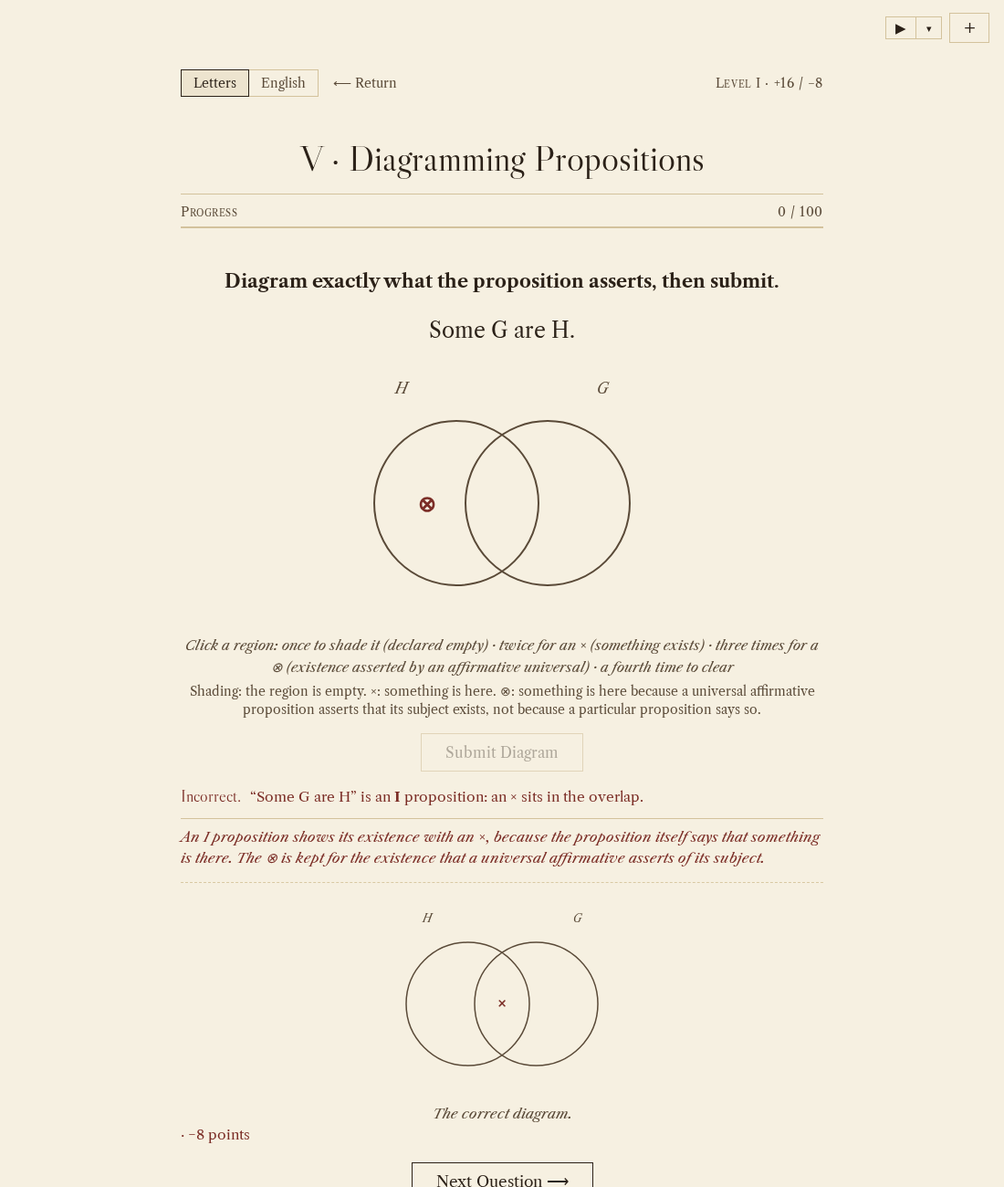
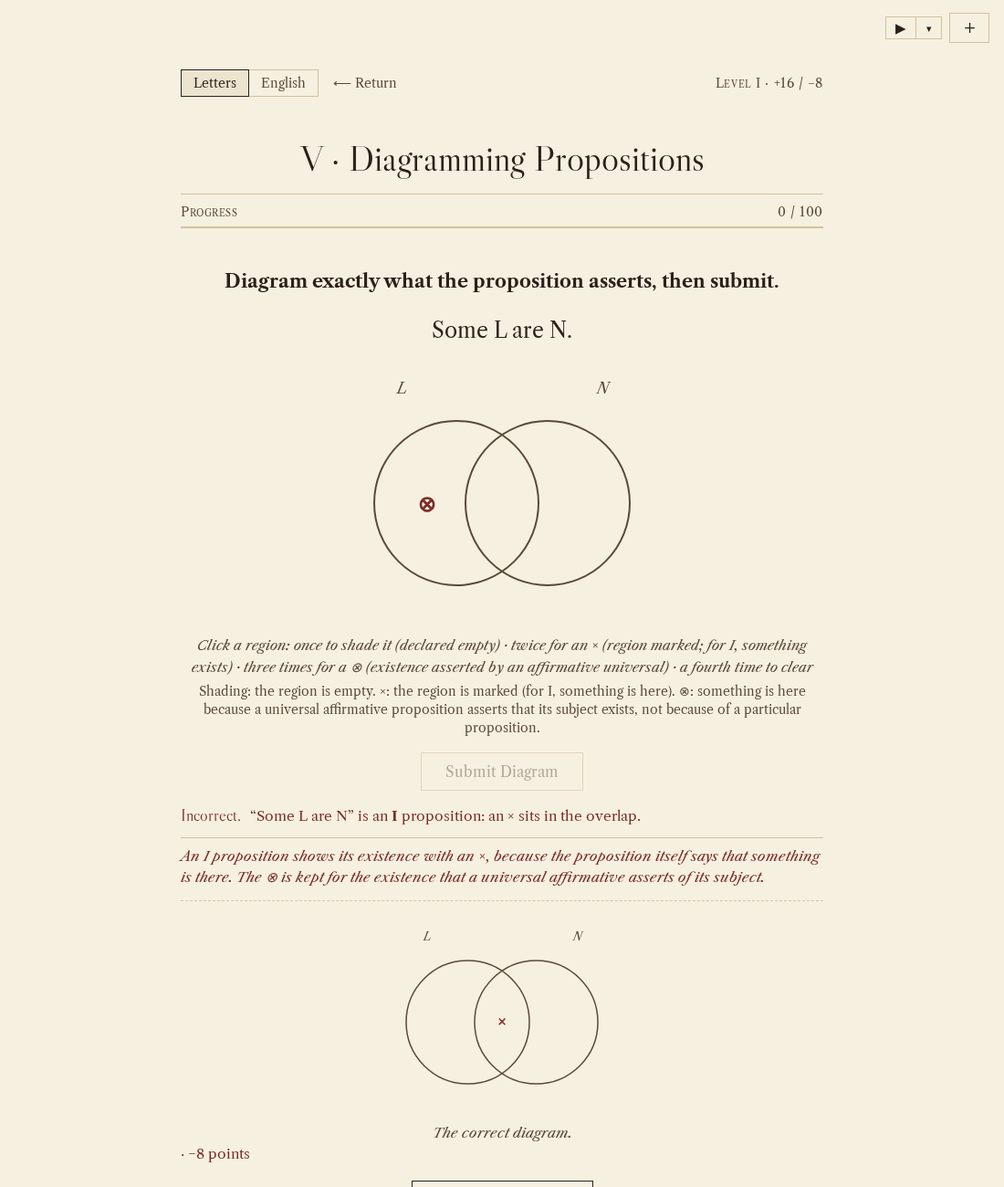
Exercise V: × legend marks the region (for I, something exists); O only marks; neutral wording for witness

diff --git a/index.html b/index.html
@@ -2043,13 +2043,13 @@ html[data-font="italic"] .fb-why{font-size:1.06em}
       <div class="lab-terms" id="lab1-terms"></div>
       <div class="preset-row" id="lab1-presets"></div>
       <div id="lab1-box"></div>
-      <div class="venn-legend" data-directions>Click a region: once to shade it (declared empty) · twice for an × (something exists) · a third time to clear</div>
+      <div class="venn-legend" data-directions>Click a region: once to shade it (declared empty) · twice for an × (region marked; for I, something exists) · a third time to clear</div>
       <div class="lab-read" id="lab1-read"></div>
       <details class="help" id="lab1-history" data-directions>
         <summary>The History of These Diagrams</summary>
         <p>In the tradition a general term signifies a nature, and it stands for (supposits for) the individuals of which that nature can be truly said. So comprehension is prior to extension: we know what a dog is before we can say which things are dogs, and “All dogs are animals” attributes animality to the dog as such. A circle in these diagrams pictures only the extension of a term, that is, the things for which it stands; it does not picture what the term means, and it is not a set defined by its members.</p>
         <p>John Venn, the English logician, published these diagrams in 1880 as an aid to the algebra of George Boole, in which a term names a class, a class may be empty, every class has a complement, and all classes lie within a universe of discourse. Leonhard Euler, the Swiss mathematician, had used circles in the eighteenth century, drawing each proposition as one arrangement of circles; Venn instead drew every possible region and marked it. On the Boolean reading “All S are P” says only that no S lies outside P, and so it is true when there are no S.</p>
-        <p>This course uses Venn’s drawing but keeps the traditional doctrine. Shading declares a region empty, an × declares that something is there, and a ⊗ shows the existence that an affirmative universal asserts of its subject, drawn where an argument needs it. Where the modern logician speaks of a complement, we speak of an infinite term such as “non-animal,” which the course treats through obversion. A fuller account is in <em>Logic as a Science: Opposition and Conversion in Depth</em>.</p>
+        <p>This course uses Venn’s drawing but keeps the traditional doctrine. Shading declares a region empty, an × marks a region (for I, that something is there), and a ⊗ shows the existence that an affirmative universal asserts of its subject, drawn where an argument needs it. Where the modern logician speaks of a complement, we speak of an infinite term such as “non-animal,” which the course treats through obversion. A fuller account is in <em>Logic as a Science: Opposition and Conversion in Depth</em>.</p>
         <p>Euler’s circles differ from Venn’s in what they draw. An Euler diagram draws only the relation that holds between the terms: for “All A are B,” the circle A lies inside the circle B; for “No A are B,” the two circles stand apart; and for “Some A are B,” the two circles overlap.</p>
         <div class="euler-row" style="display:flex; flex-wrap:wrap; justify-content:center; gap:18px; margin:10px 0"><figure style="margin:0; text-align:center"><svg viewBox="0 0 160 100" width="150" height="94" xmlns="http://www.w3.org/2000/svg" role="img"><title>All A are B</title><circle cx="80" cy="50" r="44" fill="none" stroke="var(--ink)" stroke-width="2"/><circle cx="80" cy="60" r="22" fill="none" stroke="var(--ink)" stroke-width="2"/><text x="80" y="66" font-size="16" font-style="italic" fill="var(--ink)" font-family="inherit" text-anchor="middle">A</text><text x="80" y="26" font-size="16" font-style="italic" fill="var(--ink)" font-family="inherit" text-anchor="middle">B</text></svg><figcaption style="color:var(--ink-soft)">All A are B</figcaption></figure><figure style="margin:0; text-align:center"><svg viewBox="0 0 160 100" width="150" height="94" xmlns="http://www.w3.org/2000/svg" role="img"><title>No A are B</title><circle cx="38" cy="50" r="30" fill="none" stroke="var(--ink)" stroke-width="2"/><circle cx="122" cy="50" r="30" fill="none" stroke="var(--ink)" stroke-width="2"/><text x="38" y="56" font-size="16" font-style="italic" fill="var(--ink)" font-family="inherit" text-anchor="middle">A</text><text x="122" y="56" font-size="16" font-style="italic" fill="var(--ink)" font-family="inherit" text-anchor="middle">B</text></svg><figcaption style="color:var(--ink-soft)">No A are B</figcaption></figure><figure style="margin:0; text-align:center"><svg viewBox="0 0 160 100" width="150" height="94" xmlns="http://www.w3.org/2000/svg" role="img"><title>Some A are B</title><circle cx="58" cy="50" r="36" fill="none" stroke="var(--ink)" stroke-width="2"/><circle cx="102" cy="50" r="36" fill="none" stroke="var(--ink)" stroke-width="2"/><text x="40" y="56" font-size="16" font-style="italic" fill="var(--ink)" font-family="inherit" text-anchor="middle">A</text><text x="120" y="56" font-size="16" font-style="italic" fill="var(--ink)" font-family="inherit" text-anchor="middle">B</text></svg><figcaption style="color:var(--ink-soft)">Some A are B</figcaption></figure></div>
         <p>A Venn diagram, by contrast, always draws every region, whether or not anything is there, and then marks a region as empty by shading it or as occupied by placing an × in it. So the same Venn figure serves for every proposition, and only the marks change.</p>
@@ -2238,7 +2238,7 @@ if(typeof document!=='undefined'){
      desc:'John of St. Thomas counts four modes: necessary, impossible, possible, and contingent. In this course the contingent is what can be, and can also not be. We judge equipollences (whether two expressions have the same force and the same corner of the square, as when we ask whether “not possible that not” comes to “necessary”), the modal square, and the composite and divided senses (whether the seated man may walk).',
      instr:'The modes of propositions.'},
     {id:8, title:'Diagramming Syllogisms',
-     desc:'We diagram a whole valid syllogism on three circles: we shade the universal premises, place the ×s, and, where the conclusion needs the existence of a term, place the import mark ⊗. We use Venn diagrams because they let us see what the premises assert and whether the conclusion is already contained in them, and in Exercises VIII through XI, XVI, and XVIII, and in the categorical arguments of XV and XIX, the answer is illustrated with a diagram of the correct analysis. Shading declares a region empty; an × declares that something is there; a ⊗ declares that something is there because an affirmative universal premise asserts that its subject exists, not because a particular premise says so.',
+     desc:'We diagram a whole valid syllogism on three circles: we shade the universal premises, place the ×s, and, where the conclusion needs the existence of a term, place the import mark ⊗. We use Venn diagrams because they let us see what the premises assert and whether the conclusion is already contained in them, and in Exercises VIII through XI, XVI, and XVIII, and in the categorical arguments of XV and XIX, the answer is illustrated with a diagram of the correct analysis. Shading declares a region empty; an × marks a region (for I, that something is there); a ⊗ declares that something is there because an affirmative universal premise asserts that its subject exists, not because of a particular premise.',
      instr:'Diagram the full syllogism, then submit.'},
     {id:9, title:'Syllogistic Form in the Abstract',
      desc:'We judge whether a syllogism in schematic letters is valid, considering its form alone. Capital letters are general terms; lower-case letters are singular terms.',
@@ -2785,7 +2785,7 @@ if(typeof document!=='undefined'){
       + `<p>A negative proposition carries no such existence: “No unicorns are white” is true, and so is “Some unicorn is not white.” Modern set theory reads “All S are P” as true when there are no S, and so it denies the step from “All S are P” to “Some S are P.” This course follows the classical way: affirmatives carry existential import, and negatives do not. We do speak truly of fictional and merely thought things, as in “Sherlock Holmes lives on Baker Street,” but there the copula signifies being in a story or in the mind. In the exercises the copula signifies actual existence, unless the matter or the wording extends it, as in a proposition in necessary matter or one with “can,” “will,” or “was.” (We restrict signification to actual existence here because our goal in logic is guiding reasoning toward certain knowledge. This restriction keeps that goal clear and it also allows us to choose example propositions that are obviously false, like propositions about the Phoenix or Sherlock Holmes; and if we did not restrict consideration to actual existence some of these propositions would be true or at least their truth might be in doubt.) <em>The Square of Opposition</em> (workshop) sets the classical reading beside the modern one, on which only the contradictories survive.</p>` },
     { h:`<p><strong>Opposition.</strong> Propositions with the same subject and predicate that differ in quality, in quantity, or in both are <em>opposed</em>, and their relations make up the square of opposition. <strong>Contradictories</strong> (A and O; E and I) differ in both quality and quantity, so one must be true and the other false. <strong>Contraries</strong> (A and E) cannot both be true, though both may be false. <strong>Subcontraries</strong> (I and O) cannot both be false, though both may be true. <strong>Subalterns</strong> (A and I; E and O) share their quality: if the universal is true, the particular is true, and if the particular is false, the universal is false.</p>`
       + `<p>Because the affirmatives carry existential import and the negatives do not, these relations hold even when the subject stands for nothing: then A and I are false, and E and O are true. On the modern reading, which gives the universal no existential import, contrariety, subcontrariety, and subalternation fail; this is why the course states where import lies.</p>` },
-    { h:`<p><strong>What follows in the Second Act.</strong> Exercise V draws single propositions on Venn diagrams, in which shading a region declares it empty and an × declares that something is there. Exercise VI treats opposition, equipollence, and conversion as properties of the proposition. Later logicians call these properties “immediate inferences.” Exercise VII treats the <em>modal</em> propositions, which say how the predicate belongs to the subject: necessarily, impossibly, possibly, or contingently.</p>`
+    { h:`<p><strong>What follows in the Second Act.</strong> Exercise V draws single propositions on Venn diagrams, in which shading a region declares it empty and an × marks a region (for I, that something is there). Exercise VI treats opposition, equipollence, and conversion as properties of the proposition. Later logicians call these properties “immediate inferences.” Exercise VII treats the <em>modal</em> propositions, which say how the predicate belongs to the subject: necessarily, impossibly, possibly, or contingently.</p>`
       + `<p>The diagrams are taught at the head of Exercise V, and <em>The Square of Opposition</em> shows each relation for any pair of terms. The circles picture the extension of the terms, that is, what they stand for, and not their meaning; Venn devised them in 1880 for Boole’s algebra of classes.</p>` }
   ];
 
@@ -2891,7 +2891,7 @@ if(typeof document!=='undefined'){
     7:{ qs:[
       Q(`In a Venn diagram, what does shading a region mean?`,
         [`That the region is empty`,`That the region is full`,`That we are unsure about the region`,`That the region is the conclusion`], 0,
-        `Shading declares a region empty; an × declares that something is there.`,
+        `Shading declares a region empty; an × marks a region (for I, that something is there).`,
         `The diagram never marks fullness or doubt, and no region is a conclusion.`),
       Q(`What is the converse of “No S are P”?`,
         [`“No P are S”`,`“All P are S”`,`“Some S are P”`,`“No S are non-P”`], 0,
@@ -3099,7 +3099,7 @@ if(typeof document!=='undefined'){
       + `<div class="orient-venn"><svg viewBox="0 0 120 84" xmlns="http://www.w3.org/2000/svg"><circle cx="44" cy="42" r="28" fill="none" stroke="var(--venn-line)" stroke-width="1.5"/><circle cx="76" cy="42" r="28" fill="none" stroke="var(--venn-line)" stroke-width="1.5"/><text x="60" y="42" text-anchor="middle" dominant-baseline="central" font-size="20" fill="var(--venn-mark)">×</text><text x="28" y="20" text-anchor="middle" font-size="12" font-style="italic" fill="var(--ink-soft)">S</text><text x="92" y="20" text-anchor="middle" font-size="12" font-style="italic" fill="var(--ink-soft)">P</text></svg><div class="cap"><b>I</b> Some S are P</div></div>`
       + `<div class="orient-venn"><svg viewBox="0 0 120 84" xmlns="http://www.w3.org/2000/svg"><circle cx="44" cy="42" r="28" fill="none" stroke="var(--venn-line)" stroke-width="1.5"/><circle cx="76" cy="42" r="28" fill="none" stroke="var(--venn-line)" stroke-width="1.5"/><text x="30" y="42" text-anchor="middle" dominant-baseline="central" font-size="20" fill="var(--venn-mark)">×</text><text x="28" y="20" text-anchor="middle" font-size="12" font-style="italic" fill="var(--ink-soft)">S</text><text x="92" y="20" text-anchor="middle" font-size="12" font-style="italic" fill="var(--ink-soft)">P</text></svg><div class="cap"><b>O</b> Some S are not P</div></div>`
       + `</div>`
-      + `<p>The universals (A and E) shade a region empty, and the particulars (I and O) place an × to say that something is there. A shades the part of S that lies outside P; E shades the overlap; I places an × in the overlap; and O places an × in the part of S that lies outside P. The × for O marks something there for the diagram, while O itself carries no existential import, so “Some unicorn is not white” is true.</p>`
+      + `<p>The universals (A and E) shade a region empty, and the particulars (I and O) place an ×: for I it says that something is there, and for O it only marks the region. A shades the part of S that lies outside P; E shades the overlap; I places an × in the overlap; and O places an × in the part of S that lies outside P. O itself carries no existential import, so “Some unicorn is not white” is true.</p>`
       + `<p>Useful as they are, these diagrams prove nothing by themselves. They display what a proposition already says, so that we can follow what is included, what is excluded, and whether a thing exists. The diagram assists the reasoning, but it does not replace it. The first instrument of reason is the word, and every exercise in this course is carried out in language.</p>` },
       { h:`<p><strong>Existence and the ⊗.</strong> In the older logic an affirmative proposition is true only if its subject stands for something that exists, so an affirmative whose subject stands for nothing is false. “All unicorns are white” is false, because there are no unicorns. That is why “All S are P” yields “Some S are P,” and the term of art for this is “existential import.” A negative proposition carries no such existence, so “No unicorns are white” is true. Modern set theory reads “All S are P” as true when there are no S, and so it denies the step from “All S are P” to “Some S are P.” This course follows the classical way.</p>`
         + `<p>Because an affirmative carries existential import, “All S are P” also asserts that some S exists. The course draws that existence with a <strong>⊗</strong> in the overlap, which is the open part of S. The ⊗ may be added to a diagram of A, but it is not required, except where an argument needs the existence that the affirmative asserts. A negative asserts no existence, so E and O never take a ⊗. An I proposition shows its existence with an ×, and not with a ⊗, and the × for O only marks its region. On the modern reading the diagram of A is shading alone, and no ⊗ could ever be added; the ⊗ is the classical import drawn on a modern figure.</p>` },
@@ -3399,7 +3399,7 @@ if(typeof document!=='undefined'){
           `A diagram asserts only what is marked. What is left plain is left open.`,
           `Empty would need shading, and occupied would need an ×. A finished diagram may still leave a region plain.`),
         Q(`Which of the four forms place an ×?`, [`The particulars, I and O`,`The universals, A and E`,`A and I, the affirmatives`,`E and O, the negatives`], 0,
-          `A and E shade a region empty. I and O place an × to say that something is there.`,
+          `A and E shade a region empty. I and O place an ×: for I it says that something is there, and for O it only marks the region.`,
           `The universals shade, and the division is by quantity, so it is not the affirmatives or the negatives as such.`)
       ]},
       1:{ qs:[
@@ -3879,7 +3879,7 @@ if(typeof document!=='undefined'){
     `<strong>Contraries</strong> (A and E) cannot both be true, though both may be false, and <strong>subcontraries</strong> (I and O) cannot both be false, though both may be true.`,
     `<strong>Subalterns</strong> (A and I; E and O) share their quality: if the universal is true, the particular is true, and if the particular is false, the universal is false.`,
     `Because the affirmatives carry existential import and the negatives do not, these relations hold even when the subject stands for nothing, for then A and I are false, and E and O are true.`,
-    `Exercise V draws single propositions on Venn diagrams, in which shading a region declares it empty and an × declares that something is there, and these diagrams are taught at the head of that exercise. The circles picture the extension of the terms, that is, what they stand for, and not their meaning; Venn devised them in 1880 for Boole’s algebra of classes.`,
+    `Exercise V draws single propositions on Venn diagrams, in which shading a region declares it empty and an × marks a region (for I, that something is there), and these diagrams are taught at the head of that exercise. The circles picture the extension of the terms, that is, what they stand for, and not their meaning; Venn devised them in 1880 for Boole’s algebra of classes.`,
     `Exercise VI treats opposition, equipollence, and conversion as properties of the proposition, and the study <em>The Square of Opposition</em> shows each relation for any pair of terms. Later logicians call these properties “immediate inferences.”`,
     `Exercise VII treats the <em>modal</em> propositions, which say how the predicate belongs to the subject: necessarily, impossibly, possibly, or contingently.`
   ];
@@ -4686,7 +4686,7 @@ if(typeof document!=='undefined'){
       state.venn = {A:'none', AB:'none', B:'none'};
       body.innerHTML = `<div class="syllogism" style="width:auto; text-align:center">${q.sentence}.</div>
         <div class="venn-wrap"><div id="venn-box"></div>
-        <div class="venn-legend" data-directions>Click a region: once to shade it (declared empty) · twice for an × (something exists) · three times for a ⊗ (existence asserted by an affirmative universal) · a fourth time to clear</div>
+        <div class="venn-legend" data-directions>Click a region: once to shade it (declared empty) · twice for an × (region marked; for I, something exists) · three times for a ⊗ (existence asserted by an affirmative universal) · a fourth time to clear</div>
         ${vennKeyHtml(true)}
         <div class="venn-submit-row"><button class="submit-btn" id="btn-venn-submit">Submit Diagram</button></div></div>`;
       renderVennBox();
@@ -4697,7 +4697,7 @@ if(typeof document!=='undefined'){
         ? `<br><div class="concl"><span class="therefore">∴</span>${q.concl}.</div>` : '';
       body.innerHTML = `<div class="syllogism">${q.lines[0]}.<br>${q.lines[1]}.${conclHtml}</div>
         <div class="venn-wrap"><div id="venn-box"></div>
-        ${q.sub==='syll' ? '<div class="venn-legend" data-directions>Click a region: once to shade it (declared empty) · twice for an × (something exists) · three times for a ⊗ (existence asserted by an affirmative universal) · a fourth time to clear</div>' + vennKeyHtml() : '<div class="venn-legend" data-directions>Click a region: once to shade it (declared empty) · twice for an × (something exists) · a third time to clear</div>'}
+        ${q.sub==='syll' ? '<div class="venn-legend" data-directions>Click a region: once to shade it (declared empty) · twice for an × (region marked; for I, something exists) · three times for a ⊗ (existence asserted by an affirmative universal) · a fourth time to clear</div>' + vennKeyHtml() : '<div class="venn-legend" data-directions>Click a region: once to shade it (declared empty) · twice for an × (region marked; for I, something exists) · a third time to clear</div>'}
         <div class="venn-submit-row"><button class="submit-btn" id="btn-venn-submit">Submit Diagram</button></div></div>`;
       renderVennBox3();
       $('btn-venn-submit').onclick = submitVenn3;
@@ -5008,7 +5008,7 @@ if(typeof document!=='undefined'){
         ? `“${concl}” would require ${where} to be wholly shaded, but the premises leave it open.`
         : `“${concl}” would require an × in ${where}, but the premises force none there.`;
       if(ambig)
-        cap += ` Where a “some” could sit in more than one open cell, each candidate is marked <strong>×?</strong>, since one of those cells holds the witness, but the premises do not say which.`;
+        cap += ` Where a “some” could sit in more than one open cell, each candidate is marked <strong>×?</strong>, since the × belongs in one of those cells, but the premises do not say which.`;
     }
     return `<div class="fb-venn">${svgVenn(V3, labels, diag.shaded, diag.xs)}<div class="venn-cap">${cap}</div>${vennKeyHtml()}</div>`;
   }

diff --git a/ars-engine.js b/ars-engine.js
@@ -496,8 +496,8 @@ function genOrdinaryQ(d){
    universal premise (traditional existential import), not from a
    particular premise. Student states: none / shade / x / imp.
    ================================================================ */
-const VENN_KEY = 'Shading: the region is empty. ×: something is here. ⊗: something is here because an affirmative universal premise asserts that its subject exists, not because a particular premise says so.';
-const VENN_KEY1 = 'Shading: the region is empty. ×: something is here. ⊗: something is here because a universal affirmative proposition asserts that its subject exists, not because a particular proposition says so.';
+const VENN_KEY = 'Shading: the region is empty. ×: the region is marked (for I, something is here). ⊗: something is here because an affirmative universal premise asserts that its subject exists, not because of a particular premise.';
+const VENN_KEY1 = 'Shading: the region is empty. ×: the region is marked (for I, something is here). ⊗: something is here because a universal affirmative proposition asserts that its subject exists, not because of a particular proposition.';
 function vennKeyHtml(one){ return `<div class="venn-key">${one ? VENN_KEY1 : VENN_KEY}</div>`; }
 /* Which premise supplies the existence that a ⊗ on term T marks: the A
    premise whose subject is T, or -1 (Camestros, Camenos), where T is the
@@ -704,7 +704,7 @@ function vennMistake(q, user){
   if(q.type==='I' && user.AB==='none')
     return 'The × for “Some S are P” belongs in the <em>overlap</em>, since the proposition asserts a common member. It is tempting to mark the subject’s own crescent because the sentence begins with S, but the claim concerns what S and P share.';
   if(q.type==='O' && user.AB!=='none')
-    return '“Some S are not P” locates its witness in S <em>outside</em> P. Students often mark the overlap because both terms are mentioned, but the proposition places some S outside P, not inside it.';
+    return '“Some S are not P” places its × in S <em>outside</em> P. Students often mark the overlap because both terms are mentioned, but the proposition places some S outside P, not inside it.';
   return 'The first question is whether the proposition <em>empties</em> a region (shading it) or <em>populates</em> one (placing an ×). The second is which region it concerns: the subject’s crescent, or the overlap.';
 }
 
@@ -773,7 +773,7 @@ function vennMistake3(q, user){
     return `The ⊗ is in the wrong cell. It belongs in the only region of “${impName}” that the shading leaves open, and nowhere else.`;
   const expX = REGIONS3.filter(r=>q.expect[r]==='x'), usrX = REGIONS3.filter(r=>user[r]==='x');
   if(expX.length && usrX.join()!==expX.join())
-    return 'The placing of the × matters. The universal premises are shaded first, and the shading then decides which cell of the “some”-zone can still hold a witness. An × in a shaded cell asserts what was declared empty; an × on the wrong side of a circle asserts a membership never claimed.';
+    return 'The placing of the × matters. The universal premises are shaded first, and the shading then decides which cell of the “some”-zone can still hold the ×. An × in a shaded cell asserts what was declared empty; an × on the wrong side of a circle asserts a membership never claimed.';
   const expS = REGIONS3.filter(r=>q.expect[r]==='shade').length, usrS = REGIONS3.filter(r=>user[r]==='shade').length;
   if(usrS>expS)
     return 'There is too much shading. Only what the universal premises declare empty should be shaded, which is a lens of two cells for each. Students often shade the conclusion as well, but its content should appear of itself once the premises are pictured.';
@@ -4885,7 +4885,7 @@ function formatQuizItem(q){
   }
 
   if(q.kind==='venn'){
-    out.instr = 'Diagram what the proposition asserts (shade empty regions; mark × where something exists).';
+    out.instr = 'Diagram what the proposition asserts (shade empty regions; place an × in the region a particular proposition marks).';
     out.stemHtml = `<div class="qprompt">${q.sentence}.</div>` + _blankVenn2();
     out.workClass = '';
     const cm = vennStateToMarks(q.correct);

diff --git a/notes/recitations/recitation-act2.js b/notes/recitations/recitation-act2.js
@@ -18,7 +18,7 @@
     `<strong>Contraries</strong> (A and E) cannot both be true, though both may be false, and <strong>subcontraries</strong> (I and O) cannot both be false, though both may be true.`,
     `<strong>Subalterns</strong> (A and I; E and O) share their quality: if the universal is true, the particular is true, and if the particular is false, the universal is false.`,
     `Because the affirmatives carry existential import and the negatives do not, these relations hold even when the subject stands for nothing, for then A and I are false, and E and O are true.`,
-    `Exercise V draws single propositions on Venn diagrams, in which shading a region declares it empty and an × declares that something is there, and these diagrams are taught at the head of that exercise.`,
+    `Exercise V draws single propositions on Venn diagrams, in which shading a region declares it empty and an × marks a region (for I, that something is there), and these diagrams are taught at the head of that exercise.`,
     `Exercise VI treats opposition, equipollence, and conversion as properties of the proposition, and the study <em>The Square of Opposition</em> shows each relation for any pair of terms. Later logicians call these properties “immediate inferences.”`,
     `Exercise VII treats the <em>modal</em> propositions, which say how the predicate belongs to the subject: necessarily, impossibly, or possibly.`
   ],

diff --git a/teacher-quiz.html b/teacher-quiz.html
@@ -385,7 +385,7 @@ function renderPaper(bundle){
     <div class="covers"><b>Covers:</b> ${covers.join('; ')}</div>
     <div class="rubric"><b>Directions.</b> Answer every question. For multiple choice, circle the letter.
       For “valid / invalid” and similar, circle the correct option. Where a blank is given, write the answer in standard form
-      (or <i>none</i>, when nothing follows). Diagram questions: mark the blank circles — shade empty regions; place × where something exists.</div>`;
+      (or <i>none</i>, when nothing follows). Diagram questions: mark the blank circles — shade empty regions; place × in the region a particular proposition marks.</div>`;
 
   let qs = '<ol class="qs">';
   items.forEach(it=>{

diff --git a/shots/test_legends.py b/shots/test_legends.py
@@ -1,0 +1,66 @@
+# Playwright check of the reworded legends, directions, and cards (1280/390, light/dark)
+import sys
+from playwright.sync_api import sync_playwright
+URL='http://localhost:8977/index.html'; D='/workspace/logica-existential/shots/'
+errors=[]; fails=[]
+def ov(pg,tag):
+    w=pg.evaluate("()=>document.documentElement.scrollWidth-document.documentElement.clientWidth")
+    if w>0: fails.append(f'overflow {w}px {tag}')
+def need(pg,txt,tag):
+    if txt not in pg.evaluate("()=>document.body.innerText"): fails.append(f'missing "{txt}" {tag}')
+def page(b,w,dark,init=''):
+    pg=b.new_page(viewport={'width':w,'height':900})
+    pg.add_init_script(f"try{{localStorage.setItem('arsDark','{1 if dark else 0}')}}catch(e){{}}")
+    pg.on('console', lambda m: m.type=='error' and errors.append(m.text))
+    pg.on('pageerror', lambda e: errors.append(str(e)))
+    pg.goto(URL); pg.wait_for_timeout(1200)
+    if dark: pg.evaluate("()=>document.body.classList.add('dark')")
+    if init: pg.evaluate(init)
+    return pg
+FORCE="""m=>{const g=window.genVennQ,g2=window.genVenn2Q;window.genVennQ=function(d,x){let q;for(let i=0;i<500;i++){q=g(d,x);if(q.type==='O')break;}return q;};
+ if(m==='pair') window.genVennQ=function(d,x){return g2(3,x);};}"""
+with sync_playwright() as p:
+    b=p.chromium.launch(args=['--no-sandbox'])
+    for w in (1280,390):
+      for dark in (False,True):
+        tag=f'{w}_{"dark" if dark else "light"}'
+        # home card (Exercise VIII desc with the changed legend sentence)
+        pg=page(b,w,dark)
+        c=pg.locator('h3',has_text='Diagramming Syllogisms').first; c.scroll_into_view_if_needed()
+        pg.screenshot(path=D+f'home_viii_{tag}.png'); ov(pg,'home '+tag); pg.close()
+        # Exercise V lead-in cards
+        pg=page(b,w,dark)
+        pg.locator('h3',has_text='Diagramming Propositions').first.click(); pg.wait_for_timeout(600)
+        seen=''
+        for i in range(25):
+            seen+=pg.evaluate("()=>document.body.innerText")
+            pg.screenshot(path=D+f'v_lead_{i:02d}_{tag}.png'); ov(pg,f'lead{i} '+tag)
+            btn=pg.locator('#orient-cont')
+            if not btn.count() or not btn.is_visible(): break
+            if btn.is_disabled():
+                n=pg.evaluate("()=>[...document.querySelectorAll('button')].filter(e=>e.offsetParent&&!e.id&&!e.className.includes('speak')).length")
+                for k in range(n):
+                    if not btn.is_disabled(): break
+                    pg.evaluate("k=>[...document.querySelectorAll('button')].filter(e=>e.offsetParent&&!e.id&&!e.className.includes('speak'))[k].click()",k); pg.wait_for_timeout(300)
+                if btn.is_disabled(): break
+            btn.click(); pg.wait_for_timeout(400)
+        for t in ['for I it says that something is there, and for O it only marks the region']:
+            if t not in seen: fails.append(f'lead missing "{t}" {tag}')
+        pg.close()
+        # Venn lab (click directions)
+        pg=page(b,w,dark); pg.evaluate("()=>document.getElementById('lab1-open').click()"); pg.wait_for_timeout(600)
+        need(pg,'twice for an × (region marked; for I, something exists)','lab '+tag)
+        pg.locator('#scr-lab1 .venn-legend').scroll_into_view_if_needed()
+        pg.screenshot(path=D+f'lab1_{tag}.png'); ov(pg,'lab '+tag); pg.close()
+        # Exercise V quiz single and pair, Exercise VIII quiz
+        for name,mode,card in [('v_single','one','Diagramming Propositions'),('v_pair','pair','Diagramming Propositions'),('viii','one','Diagramming Syllogisms')]:
+            pg=page(b,w,dark,"("+FORCE+")('"+mode+"')")
+            pg.locator('h3',has_text=card).first.click(); pg.wait_for_timeout(600)
+            pg.click('#lead-skip'); pg.wait_for_timeout(800)
+            need(pg,'region marked; for I, something exists',name+' '+tag)
+            if name!='v_pair': need(pg,'×: the region is marked (for I, something is here)',name+' '+tag)
+            pg.locator('#venn-box').scroll_into_view_if_needed()
+            pg.screenshot(path=D+f'{name}_{tag}.png',full_page=False); ov(pg,name+' '+tag); pg.close()
+    b.close()
+print('fails:',fails); print('console errors:',errors)
+sys.exit(1 if fails or errors else 0)

diff --git a/shots/test_venn.py b/shots/test_venn.py
@@ -1,7 +1,7 @@
 # Playwright check of Exercise V feedback for I and O (wrong mark, wrong region / stray ⊗)
 import sys
 from playwright.sync_api import sync_playwright
-URL='http://localhost:8973/index.html'
+URL='http://localhost:8977/index.html'
 CASES=[ # name, type, region, clicks, expected snippet
  ('I_wrong_mark_imp','I','AB',3,'“Some S are P” itself asserts that something exists in this region'),
  ('O_wrong_mark_imp','O','X',3,'the × is only the diagram’s way of marking this region; the O proposition asserts no existence'),

diff --git a/CHANGES.md b/CHANGES.md
@@ -60,3 +60,44 @@ Reference texts read first: the Exercise V intro card (index.html 3090: "The × 
 - node tools/check.js: all enforced checks pass.
 - shots/test_venn.py (Playwright, chromium --no-sandbox, port 8973): Exercise V forced to I and to O; wrong mark (⊗), wrong mark (shading), and stray ⊗ in the wrong region all show the new text; no console errors. Screenshots in shots/.
 - Node check of vennMistake3 with I and O premises: both branches return the expected text.
+
+# Second pass: clear wording for the × (Timothy's decision: keep the × for O, no circle mark, no ○ selector)
+
+Line numbers are those after this commit.
+
+## 1. Legends and click directions
+- ars-engine.js 499 VENN_KEY. BEFORE: Shading: the region is empty. ×: something is here. ⊗: something is here because an affirmative universal premise asserts that its subject exists, not because a particular premise says so. AFTER: Shading: the region is empty. ×: the region is marked (for I, something is here). ⊗: something is here because an affirmative universal premise asserts that its subject exists, not because of a particular premise.
+- ars-engine.js 500 VENN_KEY1. Same change ("proposition" in place of "premise").
+- index.html 2036, 4677, 4688 (twice). BEFORE: twice for an × (something exists). AFTER: twice for an × (region marked; for I, something exists).
+- index.html 2042. BEFORE: Shading declares a region empty, an × declares that something is there, and a ⊗ … AFTER: Shading declares a region empty, an × marks a region (for I, that something is there), and a ⊗ …
+- index.html 2229 (Exercise VIII description). BEFORE: Shading declares a region empty; an × declares that something is there; a ⊗ declares … not because a particular premise says so. AFTER: Shading declares a region empty; an × marks a region (for I, that something is there); a ⊗ declares … not because of a particular premise.
+- index.html 2776, 3870 (recitation array), notes/recitations/recitation-act2.js 21, notes/recitations/LOGIC-AS-AN-ART-RECITATIONS.md 94 (kept in sync). BEFORE: shading a region declares it empty and an × declares that something is there. AFTER: shading a region declares it empty and an × marks a region (for I, that something is there).
+- index.html 2882 (Study Check feedback). BEFORE: Shading declares a region empty; an × declares that something is there. AFTER: Shading declares a region empty; an × marks a region (for I, that something is there).
+- index.html 3390 (Study Check feedback). BEFORE: A and E shade a region empty. I and O place an × to say that something is there. AFTER: A and E shade a region empty. I and O place an ×: for I it says that something is there, and for O it only marks the region.
+- teacher-quiz.html 388. BEFORE: place × where something exists. AFTER: place × in the region a particular proposition marks.
+
+## 2. Intro card (index.html 3090)
+- BEFORE: … and the particulars (I and O) place an × to say that something is there. … The × for O marks something there for the diagram, while O itself carries no existential import, so “Some unicorn is not white” is true.
+- AFTER: … and the particulars (I and O) place an ×: for I it says that something is there, and for O it only marks the region. … O itself carries no existential import, so “Some unicorn is not white” is true.
+
+## 3. Instruction (ars-engine.js 4888)
+- BEFORE: Diagram what the proposition asserts (shade empty regions; mark × where something exists).
+- AFTER: Diagram what the proposition asserts (shade empty regions; place an × in the region a particular proposition marks).
+
+## 4. "Witness"
+- ars-engine.js 707 (O only). BEFORE: “Some S are not P” locates its witness in S <em>outside</em> P. AFTER: “Some S are not P” places its × in S <em>outside</em> P.
+- ars-engine.js 776 (serves both I and O premises; about where the × goes). BEFORE: which cell of the “some”-zone can still hold a witness. AFTER: which cell of the “some”-zone can still hold the ×.
+- index.html 4999 (caption for "×?" cells; serves I and O). BEFORE: since one of those cells holds the witness, but the premises do not say which. AFTER: since the × belongs in one of those cells, but the premises do not say which.
+
+## Left unchanged
+- index.html 2023: reports the textbooks' convention (Venn, Copi, Hurley, Gensler) in quotation marks; it is an accurate report, and the course's own reading follows at 2042.
+- index.html 3389 ("occupied would need an ×"): answers a general question about what a diagram can mark; not a claim that O asserts existence.
+- ars-engine.js 776 second sentence ("An × in a shaded cell asserts what was declared empty"): about contradiction between marks, kept.
+- ars-engine.js 1391, index.html 4559, 4820 ("existential import supplying the witness"): about subalternation and conversion per accidens of universals; correct doctrine.
+- Doctrine cards on existential import of A and of affirmatives: unchanged.
+- teacher-quiz.html 388 keeps its existing dash ("mark the blank circles — shade …"); outside the scope of this change.
+
+## Verification (second pass)
+- node tools/check.js: all enforced checks pass.
+- shots/test_legends.py (Playwright, chromium --no-sandbox, port 8977) at 1280 and 390 wide, light and dark: home card (Exercise VIII), Exercise V lead-in cards, Venn lab click directions, Exercise V one-proposition question (directions plus VENN_KEY1), Exercise V two-premise question, Exercise VIII question (directions plus VENN_KEY). The new text is present, there is no horizontal overflow, and there are no console errors. Screenshots in shots/.
+- shots/test_venn.py rerun: all six I and O feedback cases pass.

diff --git a/notes/recitations/LOGIC-AS-AN-ART-RECITATIONS.md b/notes/recitations/LOGIC-AS-AN-ART-RECITATIONS.md
@@ -91,7 +91,7 @@ Drafted 21 Oct 2026 from the final cards of the four study decks that open Logic
 14. **Contraries** (A and E) cannot both be true, though both may be false, and **subcontraries** (I and O) cannot both be false, though both may be true.
 15. **Subalterns** (A and I; E and O) share their quality: if the universal is true, the particular is true, and if the particular is false, the universal is false.
 16. Because the affirmatives carry existential import and the negatives do not, these relations hold even when the subject stands for nothing, for then A and I are false, and E and O are true.
-17. Exercise V draws single propositions on Venn diagrams, in which shading a region declares it empty and an × declares that something is there, and these diagrams are taught at the head of that exercise.
+17. Exercise V draws single propositions on Venn diagrams, in which shading a region declares it empty and an × marks a region (for I, that something is there), and these diagrams are taught at the head of that exercise.
 18. Exercise VI treats opposition, equipollence, and conversion as properties of the proposition, and the study *The Square of Opposition* shows each relation for any pair of terms. Later logicians call these properties “immediate inferences.”
 19. Exercise VII treats the *modal* propositions, which say how the predicate belongs to the subject: necessarily, impossibly, or possibly.
 
